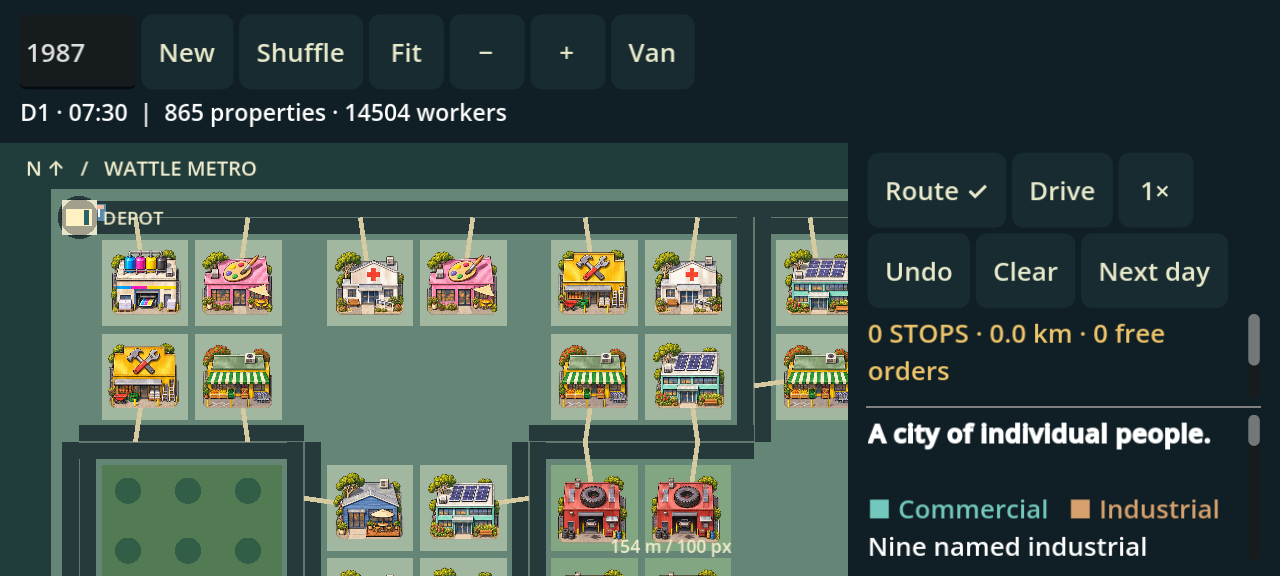
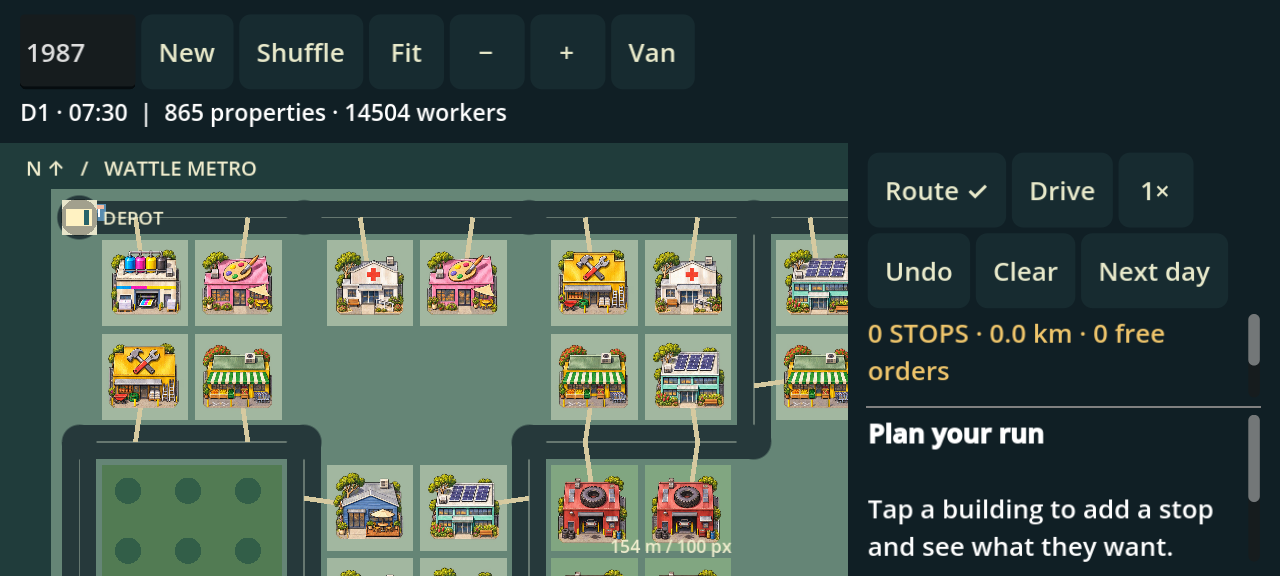
Round city roads and simplify stop demand panel

diff --git a/prototypes/city-lab/README.md b/prototypes/city-lab/README.md
@@ -35,7 +35,7 @@ Native Linux export is also configured. Godot can target Windows, macOS, Android
 - **Drive / Pause / Resume:** run or pause the van and population clock. **1× / 4×:** simulation speed.
 - **Undo:** remove the last planned stop. **Clear:** stop the run and clear its route. Clear preserves the day's worker orders; it is not a new day.
 - **Next day:** keep the route and workers, reset their appetites and the van, and return to 07:30. Routes can then be edited again.
-- Scroll the property inspector to see every staff member and their current requests. Scroll the route list to see all placed stops.
+- The property panel shows staff count, drinks and meals wanted now, and orders served today. Individual staff are still simulated behind this summary. Scroll the route list to see all placed stops.
 
 ## Model
 
@@ -98,3 +98,7 @@ Android supports either landscape orientation, a density-independent 800×400 lo
 This update also includes the sixteen generated building sprites, nine industrial precincts, and irregular connected streets with cul-de-sacs. Tests check deterministic road generation, genuine detours, dead ends, reachable property entrances, cluster separation, all sprite mappings, input gestures and high-density phone layouts. APK version code is 2, signed with the same local debug key as v0.1.0. Native physical-device testing remains outstanding.
 
 Asset provenance and the full built-in image-generation prompt are in [assets/README.md](assets/README.md).
+
+## v0.1.2 — simpler stops
+
+Rounded street corners, junctions and dead-end caps soften the map. The sidebar now shows a compact drinks/meal demand summary instead of individual worker schedules. Android version code 3.
